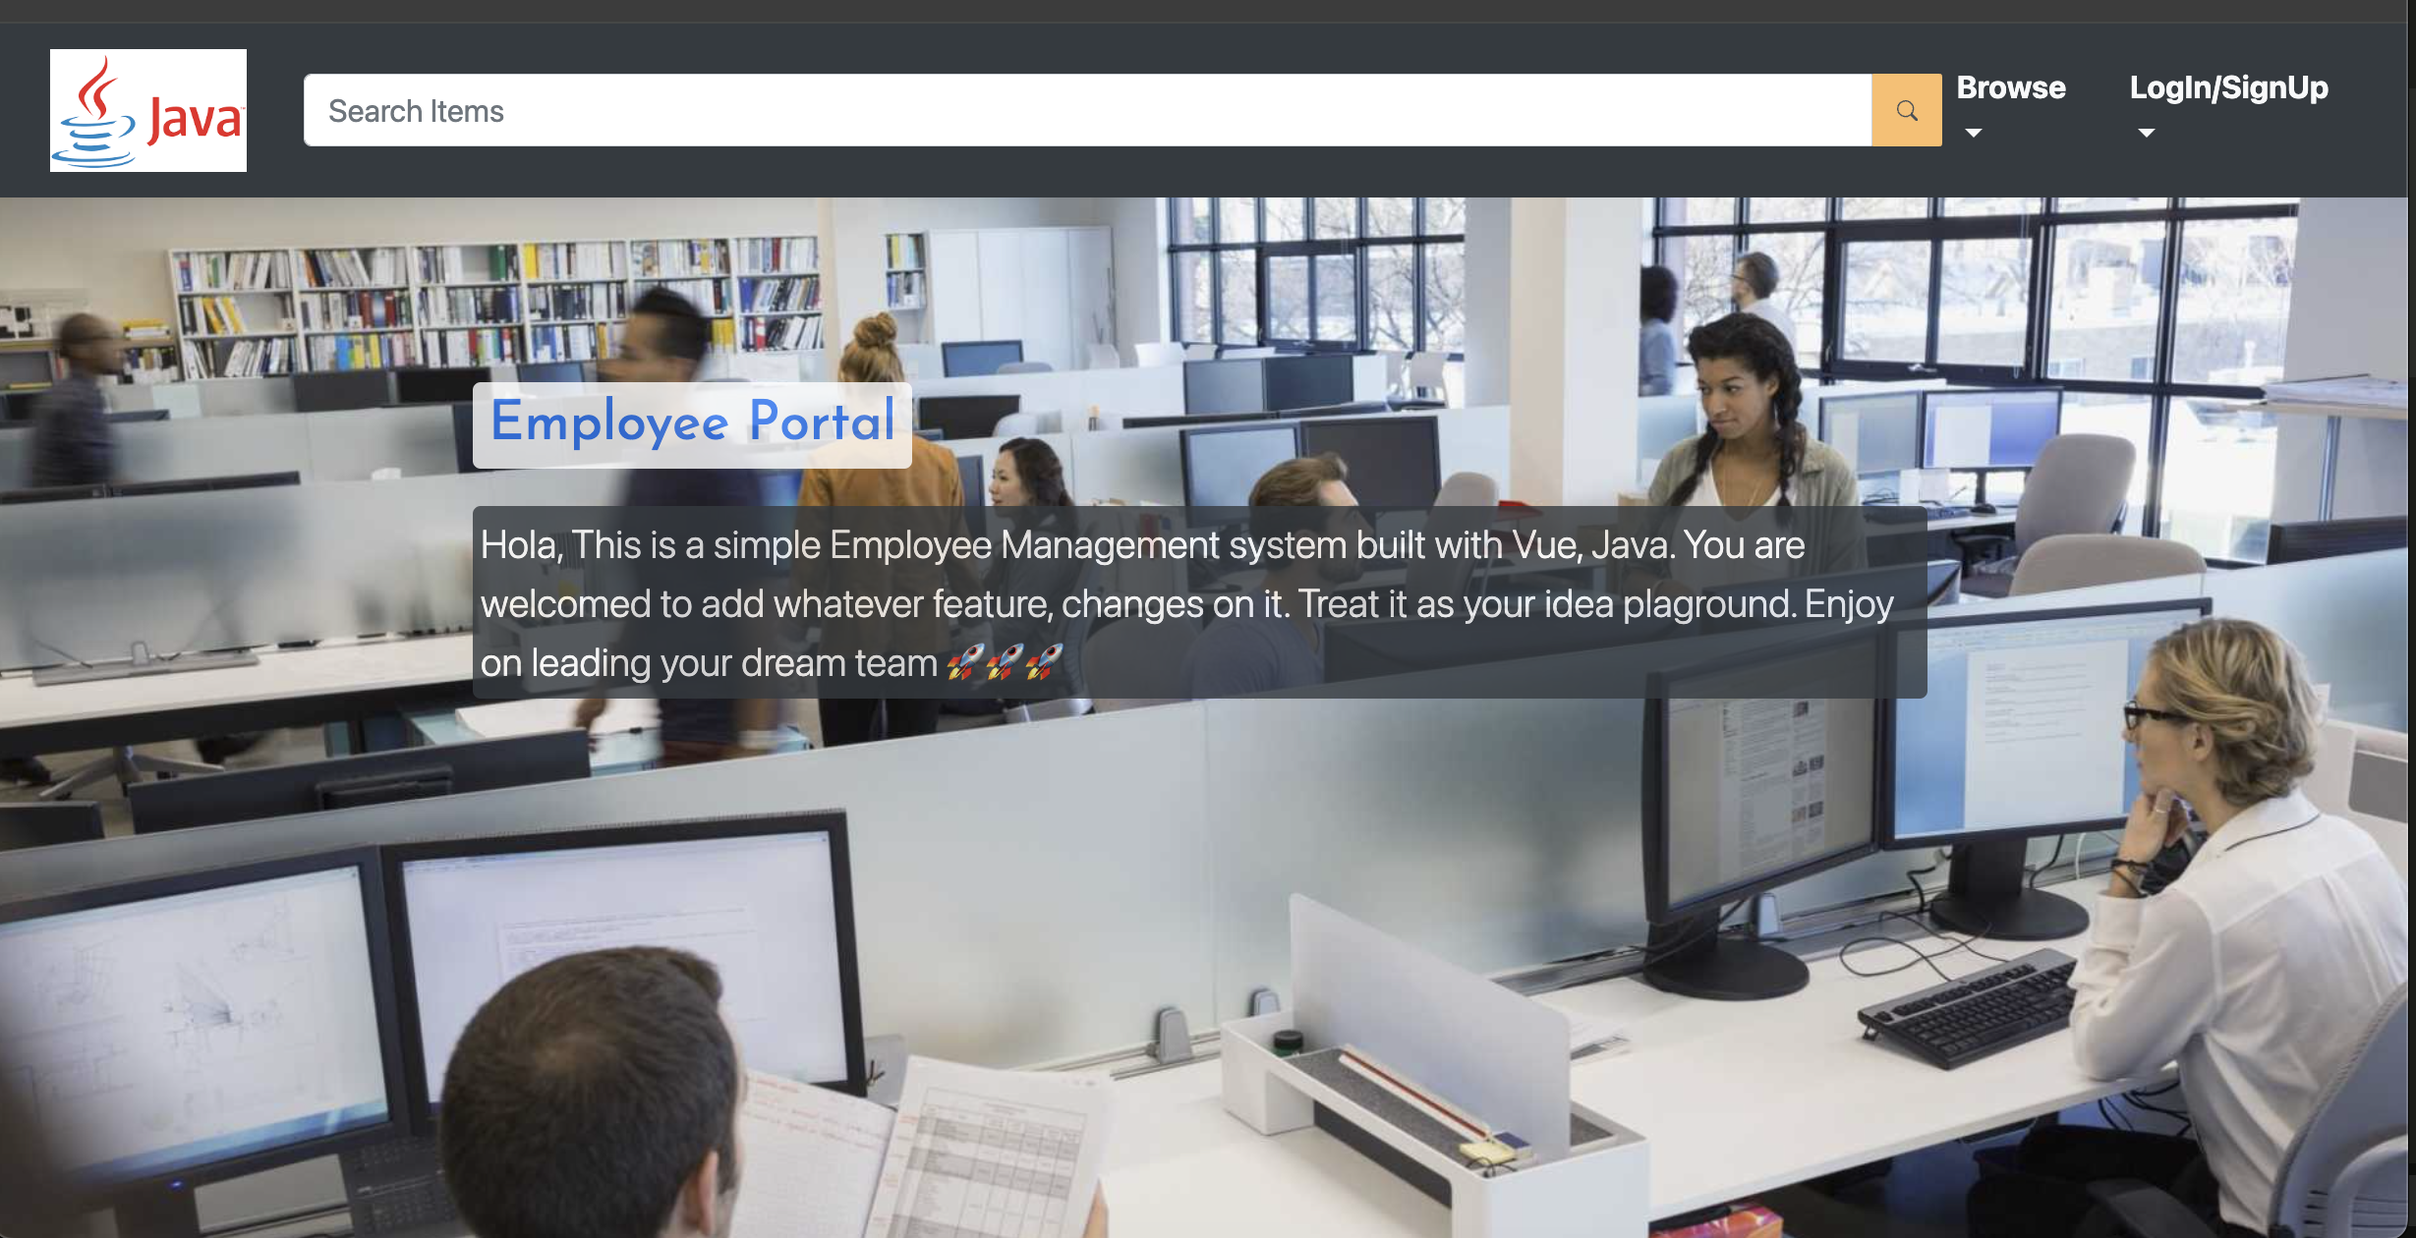
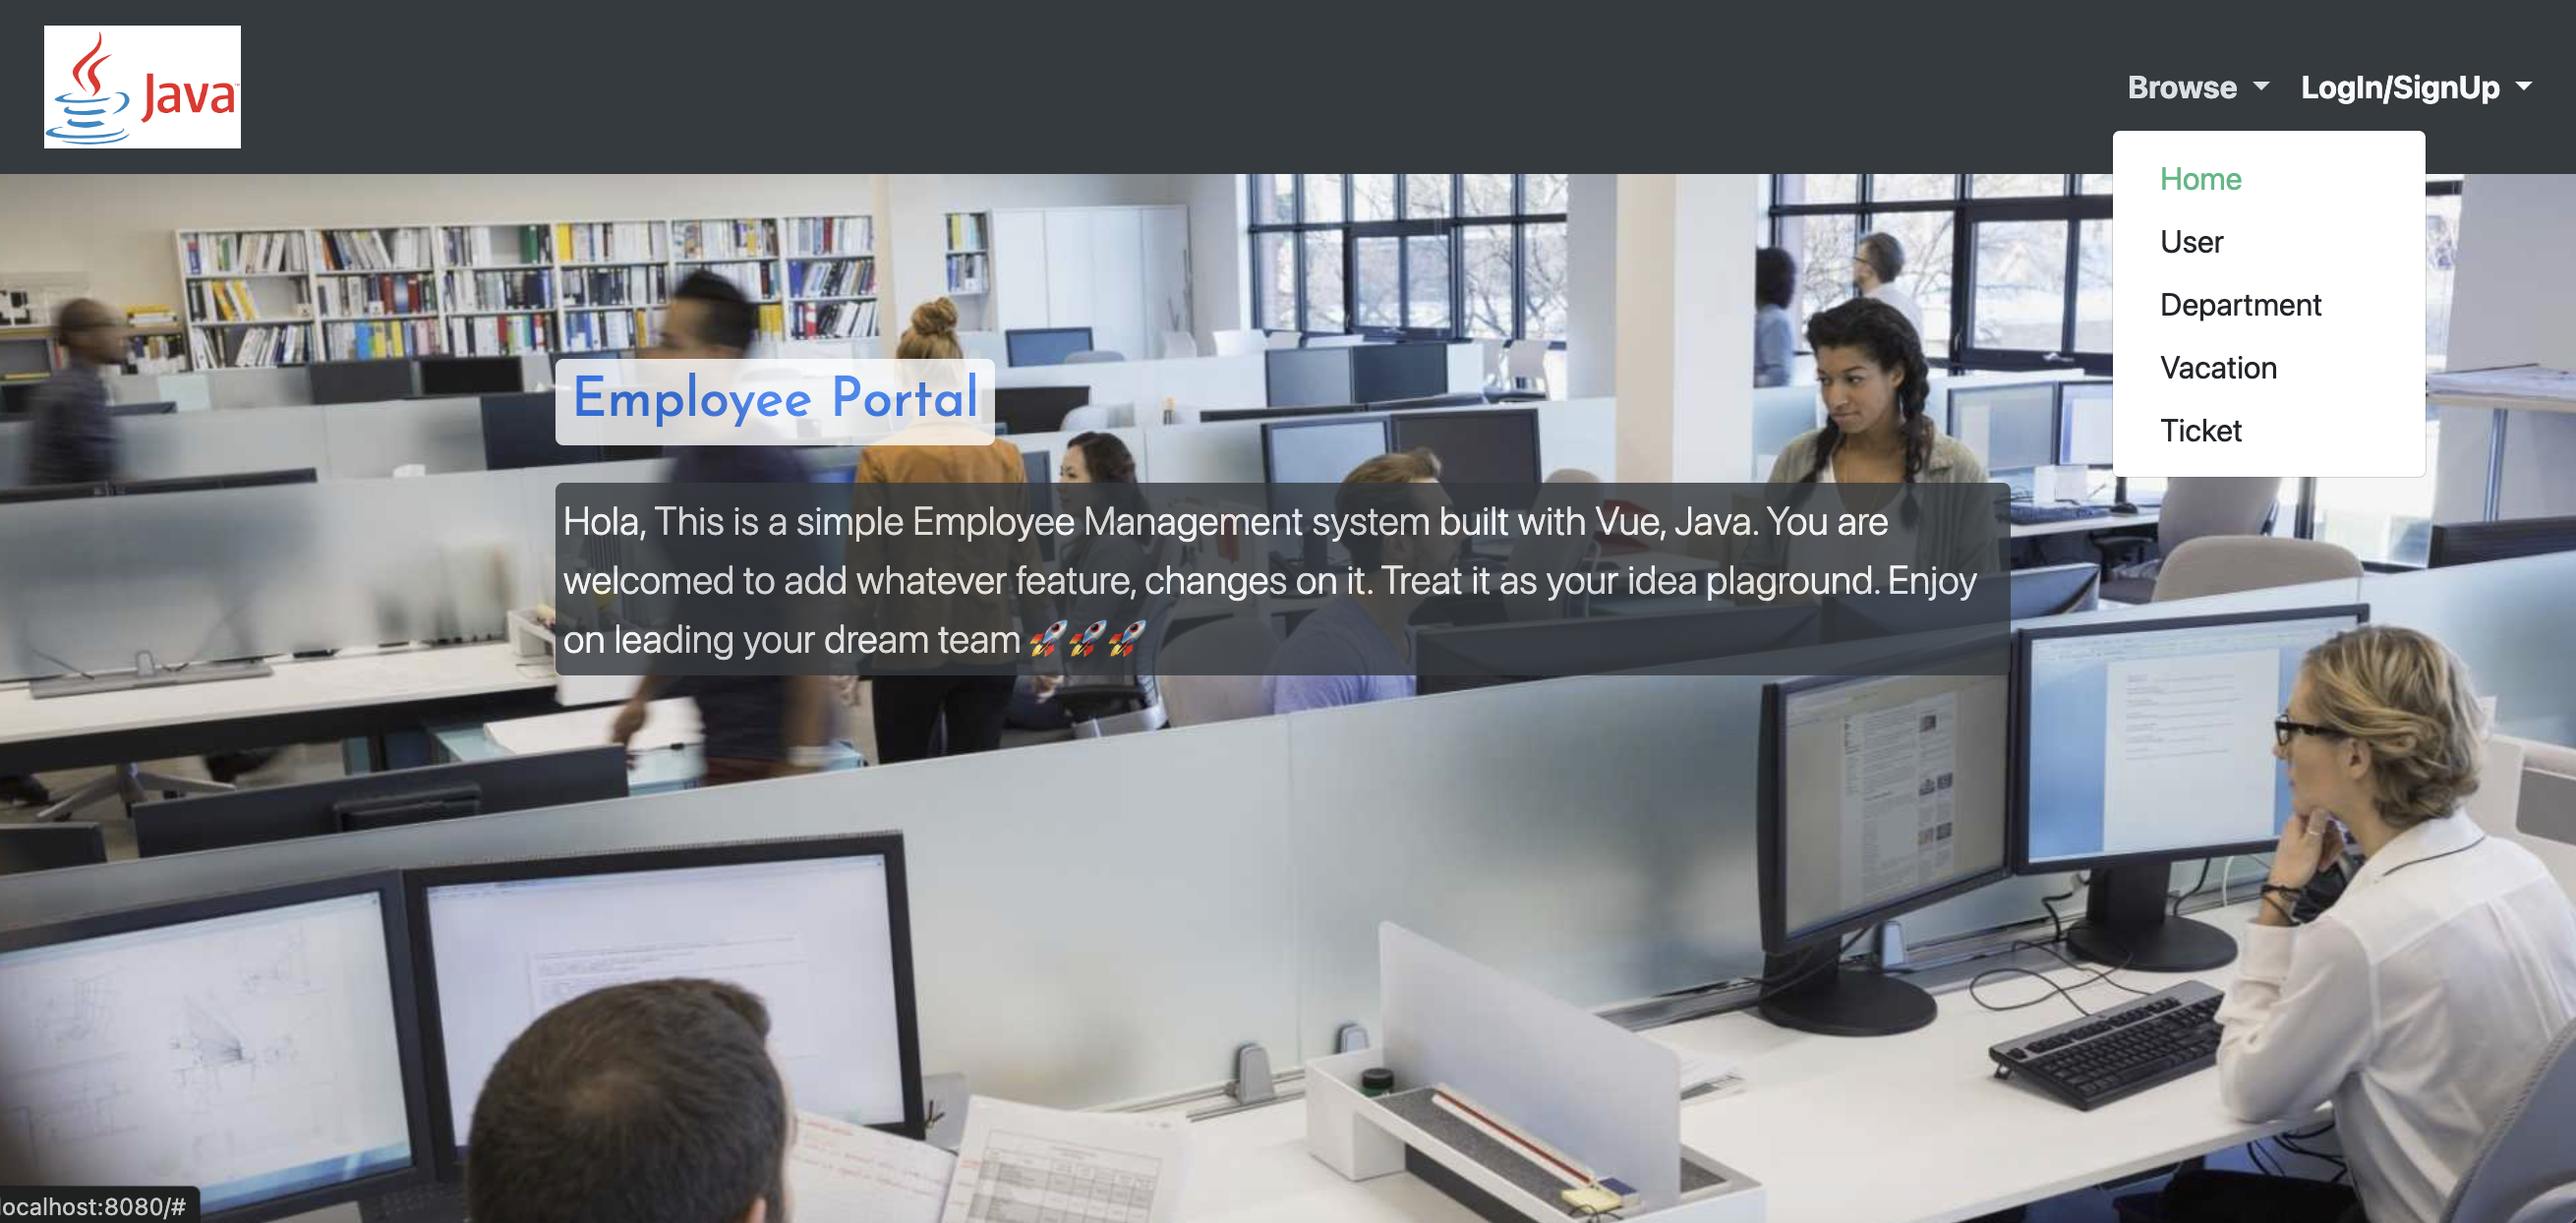
add pic, update readme, code layout

diff --git a/springEmployeeSystem/backend/EmployeeSystem/src/main/java/EmployeeSystem/service/AuthenticationService.java b/springEmployeeSystem/backend/EmployeeSystem/src/main/java/EmployeeSystem/service/AuthenticationService.java
@@ -28,6 +28,7 @@ public class AuthenticationService {
     }
 
     public User getUser(String token) {
+
         AuthenticationToken authenticationToken = repository.findTokenByToken(token);
         if (Helper.notNull(authenticationToken)) {
             if (Helper.notNull(authenticationToken.getUser())) {

diff --git a/springEmployeeSystem/README.md b/springEmployeeSystem/README.md
@@ -14,6 +14,8 @@
 
 <p align="center"><img src ="./doc/pic/demo_5.png"></p>
 
+<p align="center"><img src ="./doc/pic/demo_6.png"></p>
+
 ## Steps
 
 
